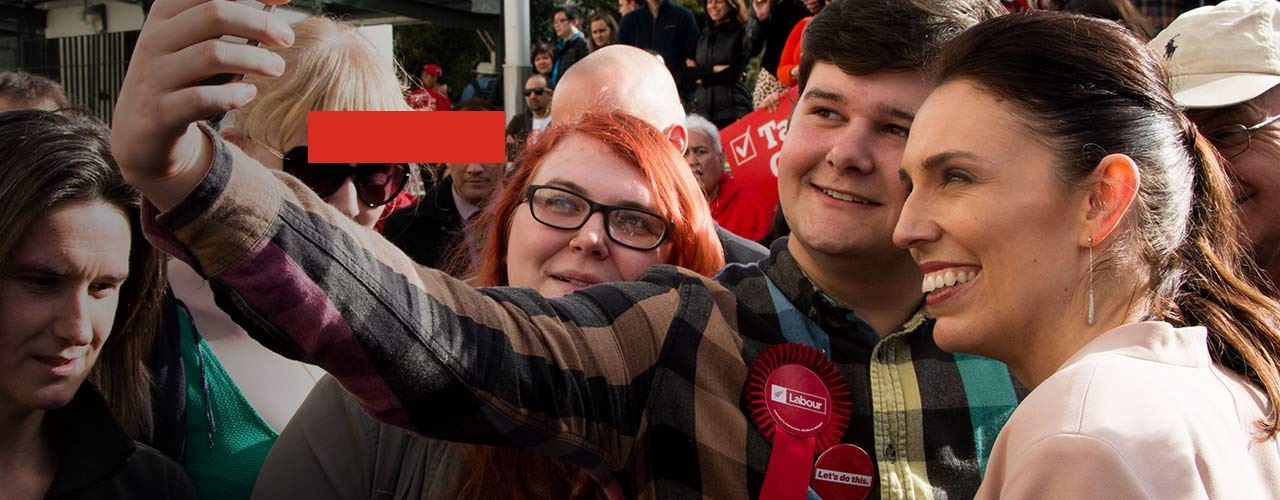
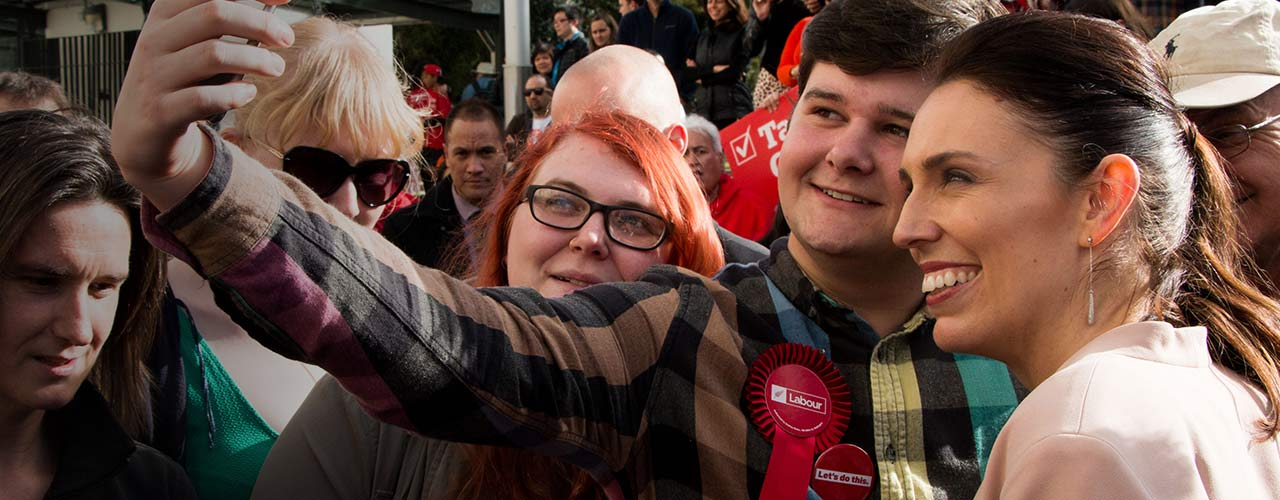
testing something

Changed region(s): [[0.2188, 0.21, 0.4062, 0.33]]

diff --git a/index.html b/index.html
@@ -56,7 +56,7 @@
             <!-- bad practice -->
           </br></br></br></br></br> 
           <div id="headerText">
-            <h1><b><i>Lets do this.</i></b></h1>
+            <div id="redBox"><h1><b><i>Lets do this.</i></b></h1></div>
             <h1><b><i>Are you with jacinda</i></b></h1>
             <h1><b><i>and us?</i></b></h1>
             <h3><b>Sign up for emails</b></h3>

diff --git a/vendor/bootstrap/css/bootstrap.css b/vendor/bootstrap/css/bootstrap.css
@@ -9319,6 +9319,11 @@ nav{
   border: none;
 }
 
+#redBox{
+  width: 20%;
+  background-color: #d82c20;
+}
+
 /*-------------------[articles]-------------------*/
 
 #article{
